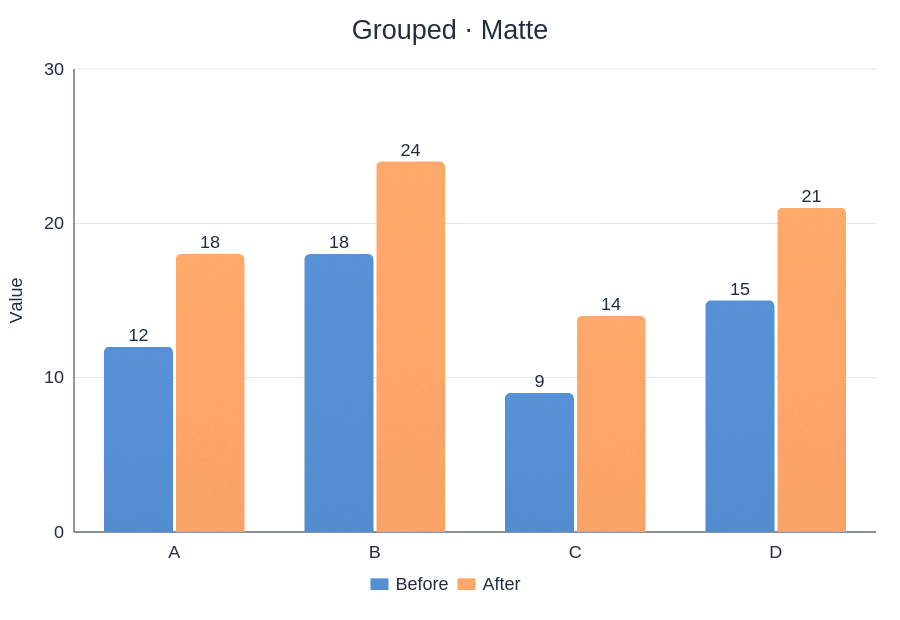
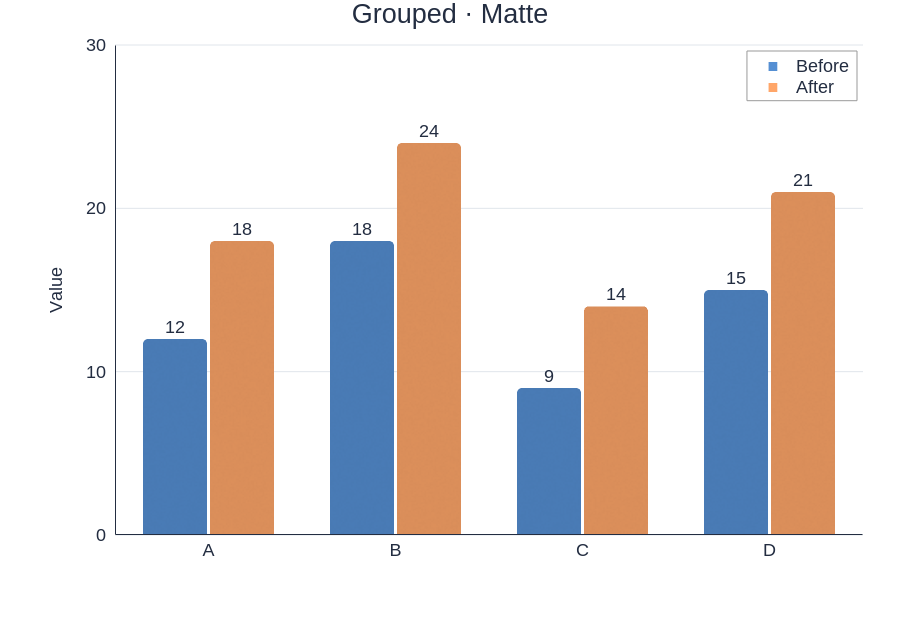
Regenerate the categorical, box plot and radar gallery images
gallery-categorical.png, gallery-boxplot.png, gallery-radar.png and
gallery-radar-circle.png are drawn by the Cartesian renderer with their
value labels (grouped-matte, 01-classic-matte, 01-spider-web and
02-circle-values). The box plot gallery labels every box with its median
and fixes its value range at 0 to 120, so the label past the highest
outlier fits inside the data area; categorical_gallery leaves room past
the bars for outside labels.

Part of #40. Part of #58.

Claude-Session: https://claude.ai/code/session_01TftMA7VmYDmtePvkKW47ij

diff --git a/crates/renderer/examples/categorical_gallery.rs b/crates/renderer/examples/categorical_gallery.rs
@@ -43,6 +43,13 @@ fn save(r: &mut Renderer, document: &CategoricalChart, directory: &Path, name: &
         }
     };
     let format = value_format(&config);
+    // Outside value labels need room past the longest bar, as the former
+    // chart left them: 12 % of the value range on the sides the bars grow
+    // to. A percent stack ends at 100 and keeps its labels inside.
+    let outside = document.mode != CategoryBarMode::PercentStacked
+        && (document.labels == CategoryBarLabels::Outside
+            || (document.labels == CategoryBarLabels::Auto
+                && document.mode == CategoryBarMode::Grouped));
     let mut chart = Chart::new(config);
     chart.auto_fit_layer_union(r.pool(), LayerRef::Base, &series, 0.0)?;
     let mut config = chart.config().clone();
@@ -52,7 +59,14 @@ fn save(r: &mut Renderer, document: &CategoricalChart, directory: &Path, name: &
         &mut config.left_y
     };
     value.label_style.format = format;
-    let (min, max) = (value.min, value.max);
+    let (mut min, mut max) = (value.min, value.max);
+    let span = max - min;
+    if outside && max > 0.0 {
+        max += 0.12 * span;
+    }
+    if outside && min < 0.0 {
+        min -= 0.12 * span;
+    }
     value
         .auto_ticks(min, max, 5)
         .map_err(|e| format!("value axis ticks: {e:?}"))?;

diff --git a/crates/renderer/examples/boxplot_gallery.rs b/crates/renderer/examples/boxplot_gallery.rs
@@ -1,7 +1,9 @@
 //! Box plot documents drawn as Cartesian box plot series: each
 //! `BoxPlotChart` is opened with `Config::from_boxplot`, its positions,
 //! records and outliers uploaded from the borrowed summaries, and exported by
-//! the Cartesian renderer at 960 x 640 without post-render scaling.
+//! the Cartesian renderer at 960 x 640 without post-render scaling. Every
+//! case labels each box with its median (`BoxPlotLabels::Median`, written
+//! into `labels.text` by the reader).
 use renderer::{
     BOX_PLOT_RECORD, Category, Chart, Color, ColumnSource, LayerRef, Material, RaggedSource,
     RecordSource, Renderer, RendererDevice, UploadValues, boxplot::*, config::Config, data_render,
@@ -117,10 +119,14 @@ fn main() -> Result {
             ],
             Color::from_rgb8(65, 144, 208),
         )],
-        value_range: Some([0., 100.]),
+        // Room past the highest outlier for its label: labels are clipped
+        // to the data area, as the data they label.
+        value_range: Some([0., 120.]),
         value_title: "Response".into(),
         font_size: 18.,
         legend: false,
+        // The median above every box, in every case below.
+        labels: BoxPlotLabels::Median,
         ..Default::default()
     };
     for (id, color) in [

diff --git a/crates/renderer/examples/radar_gallery.rs b/crates/renderer/examples/radar_gallery.rs
@@ -6,8 +6,8 @@
 //! `target/radar-gallery`), and fails when an image has fewer than 1000
 //! coloured pixels.
 //! - `01-spider-web.png`: two series on the default polygon grid.
-//! - `02-circle-values.png`: a circular grid (value labels are configured;
-//!   the renderer does not draw them yet).
+//! - `02-circle-values.png`: a circular grid with a value label outside
+//!   every vertex.
 //! - `03-fixed-axis.png`: a fixed 0 to 10 axis with a ring every 2.5 and
 //!   square markers.
 //! - `04-four-series.png`: four series counter-clockwise from the right,

diff --git a/crates/renderer/examples/README.md b/crates/renderer/examples/README.md
@@ -58,8 +58,8 @@ file name. To refresh an image, run the example's command from
 | Image | Asset | Drawn by | Shows |
 |---|---|---|---|
 | <img src="https://raw.githubusercontent.com/shim9610/figgy/master/crates/renderer/assets/gallery-donut.png" width="160" alt="Ceramic donut"> | `gallery-donut.png` | [radial_gallery.rs](radial_gallery.rs), case `ceramic` | Named values, rounded edges, an oblique view |
-| <img src="https://raw.githubusercontent.com/shim9610/figgy/master/crates/renderer/assets/gallery-categorical.png" width="160" alt="Grouped bars"> | `gallery-categorical.png` | [categorical_gallery.rs](categorical_gallery.rs), case `grouped-matte` | Two series across four categories |
-| <img src="https://raw.githubusercontent.com/shim9610/figgy/master/crates/renderer/assets/gallery-boxplot.png" width="160" alt="Box plot"> | `gallery-boxplot.png` | [boxplot_gallery.rs](boxplot_gallery.rs), case `01-classic-matte` | Supplied five-number summaries and outliers |
+| <img src="https://raw.githubusercontent.com/shim9610/figgy/master/crates/renderer/assets/gallery-categorical.png" width="160" alt="Grouped bars"> | `gallery-categorical.png` | [categorical_gallery.rs](categorical_gallery.rs), case `grouped-matte` | Two series across four categories, a value label past every bar |
+| <img src="https://raw.githubusercontent.com/shim9610/figgy/master/crates/renderer/assets/gallery-boxplot.png" width="160" alt="Box plot"> | `gallery-boxplot.png` | [boxplot_gallery.rs](boxplot_gallery.rs), case `01-classic-matte` | Supplied five-number summaries and outliers, the median above every box |
 | <img src="https://raw.githubusercontent.com/shim9610/figgy/master/crates/renderer/assets/gallery-radar.png" width="160" alt="Radar chart"> | `gallery-radar.png` | [radar_gallery.rs](radar_gallery.rs), case `01-spider-web` | Two series over six categories on a polygon grid |
 | <img src="https://raw.githubusercontent.com/shim9610/figgy/master/crates/renderer/assets/gallery-radar-circle.png" width="160" alt="Radar chart with value labels"> | `gallery-radar-circle.png` | [radar_gallery.rs](radar_gallery.rs), case `02-circle-values` | A circular grid with a value label at every vertex |
 

diff --git a/crates/renderer/GALLERY.md b/crates/renderer/GALLERY.md
@@ -186,11 +186,12 @@ radial example uses `RadialRenderer`; its small-data model does not use the
 Cartesian column pool. `categorical_gallery`, `boxplot_gallery` and
 `radar_gallery` open their documents with `Config::from_categorical`,
 `Config::from_boxplot` and `Config::from_radar` and draw them with the
-Cartesian `Renderer`. `gallery-categorical.png`, `gallery-boxplot.png`,
-`gallery-radar.png` and `gallery-radar-circle.png` were drawn by the former
-bounded renderers, with value labels, which the Cartesian category bars, box
-plots and radar series do not draw yet (#40 item 13h); they are replaced when
-they do.
+Cartesian `Renderer`, value labels included (the documents' `labels`
+settings, written into `labels.text` by the readers). `categorical_gallery`
+leaves 12 % of the value range past the bars for outside labels, as the
+former chart did, and `boxplot_gallery` fixes its value range at 0 to 120 so
+the label past the highest outlier fits: labels are clipped to the data area,
+as the data they label.
 
 ## Precise and hand-drawn Sketch previews
 
